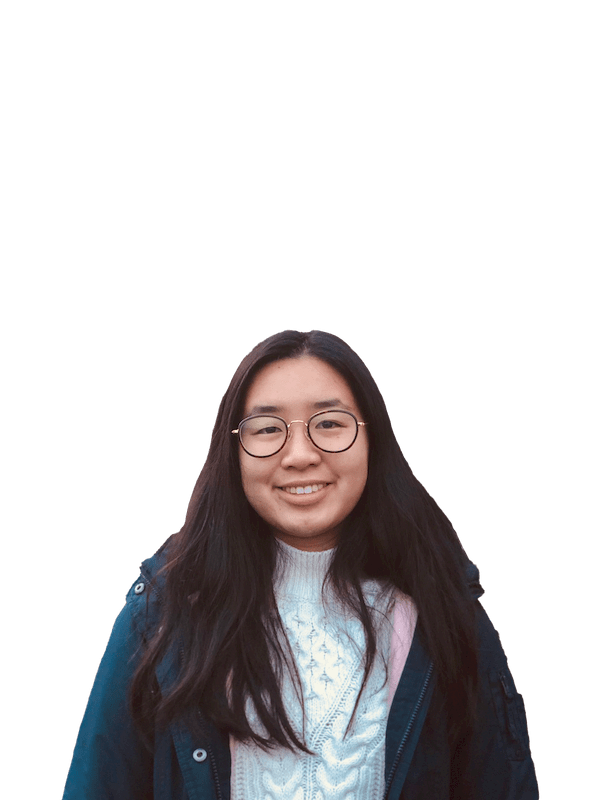
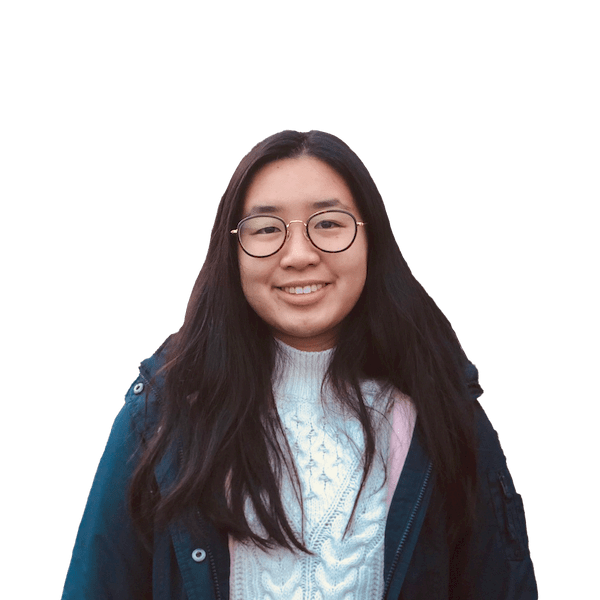
hover issue, and z-index

Changed region(s): [[0.12, 0.21, 0.9, 1.0], [0.09, 0.93, 0.12, 1.0], [0.87, 0.99, 0.9, 1.0]]

diff --git a/src/Components/About.js b/src/Components/About.js
@@ -143,7 +143,8 @@ export default class Home extends Component {
                         </div>
                     </div>
                 </div>
-                <div className="about-section-1">    
+                <div className="about-section-1">
+                    <img id="skytram" alt="skytram" src="/images/about-page-top.png"/>    
                     <div style={{color: darkColor}} className="title about-title">
                         Who We Are 
                     </div>
@@ -154,7 +155,6 @@ export default class Home extends Component {
                         accessible opportunities for budding designers to learn and develop their skills in their 
                         creative journeys!
                     </div>
-                    <img id="skytram" alt="skytram" src="/images/about-page-top.png"/>
                 </div>
                 <div className="about-section-2">
                     <div style={{color: darkColor}} className="title about-title-2">

diff --git a/src/Components/Team.js b/src/Components/Team.js
@@ -90,7 +90,7 @@ export default class Home extends Component {
                             </div>
                         </div>                                
                         <div style={{marginTop: "24px"}} className="team-member-name title-small">Esther Liu</div>
-                        <div className="team-member-team longCaption">Design {'\u2022'} Logistics</div>
+                        <div className="team-member-team longCaption">Logistics {'\u2022'} Design</div>
                     </div>
                     <div className="evelyn team-member">
                         <div className="team-member-container">
